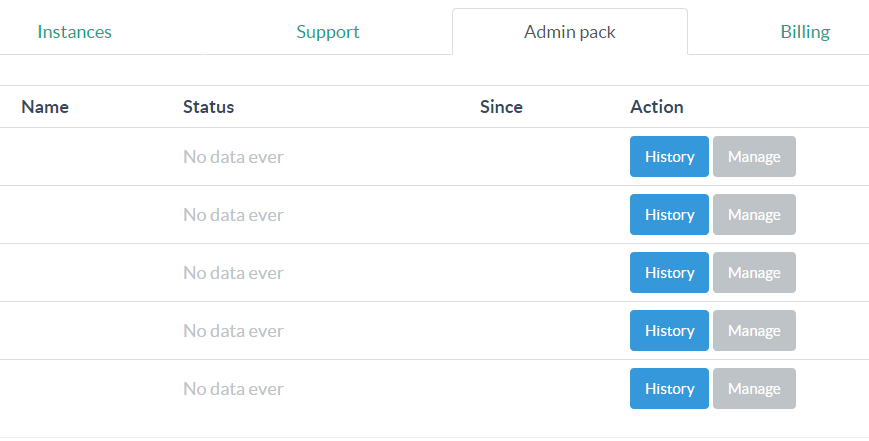
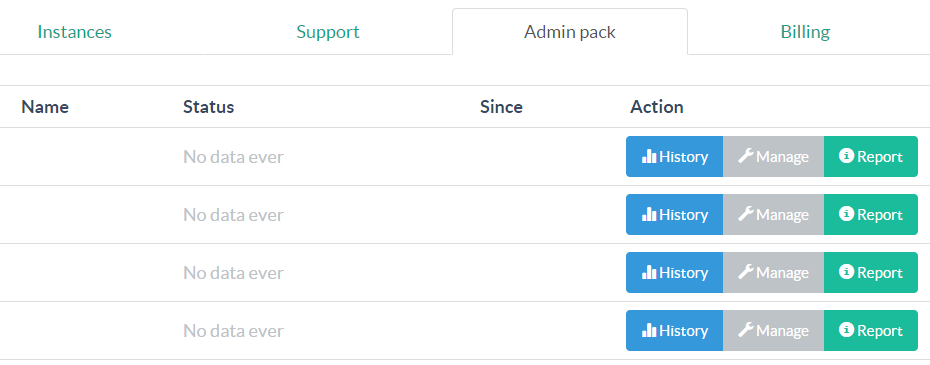
Doc: fix page Admin Pack

diff --git a/src/doc/en/documentation/tutorials/using_opensearchserver_admin_pack.md b/src/doc/en/documentation/tutorials/using_opensearchserver_admin_pack.md
@@ -58,4 +58,12 @@ The OpenSearchServer instance you want to monitor must now be configured to regu
 
 That's it! This job will now run every 4 minutes. It will post monitoring information to your Admin Pack. You will receive immediate e-mail notification when the status changes.  
 
-Information received by the monitoring service can be seen by clicking on the **History** button in the **Admin Pack** tab of your dashboard on http://www.opensearchserver.com.
+### Viewing history and reports
+
+In the Admin Pack tab of your dashboard you will also be able to access the **history** of the received monitoring information by clicking on the History button:
+
+![Viewing history](oss_monitoring_history.png)
+
+Clicking the **Report** button you will get an analysis of several values sent by the monitoring process. It can help you improving your experience with OpenSearchServer:
+
+![Viewing report](oss_monitoring_report.png)
